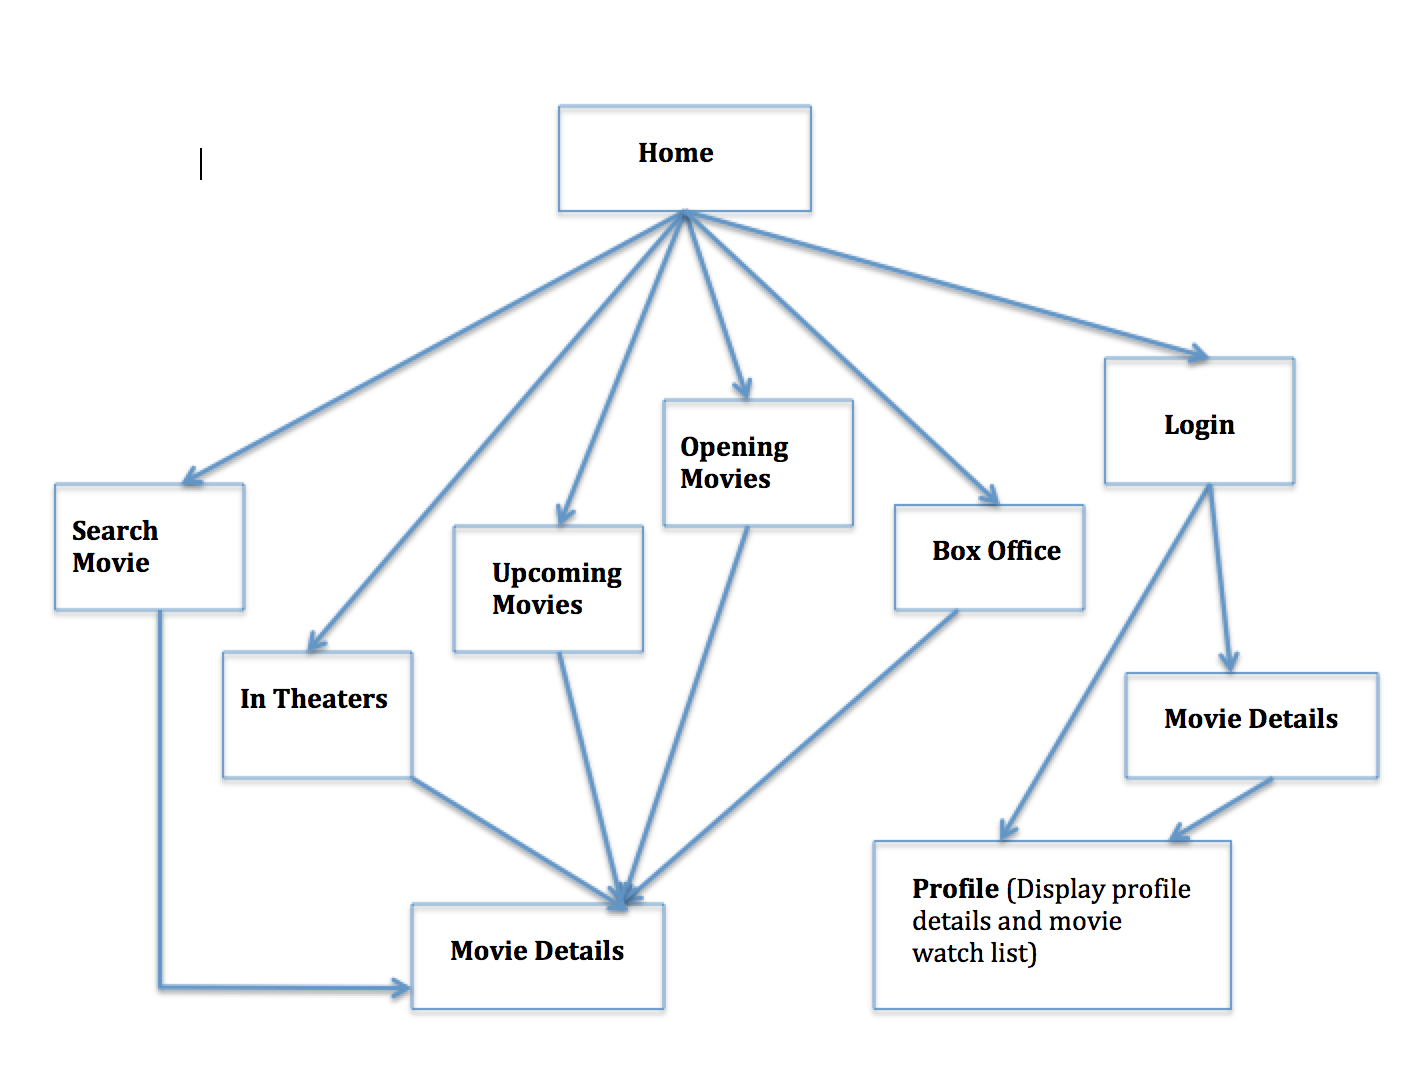
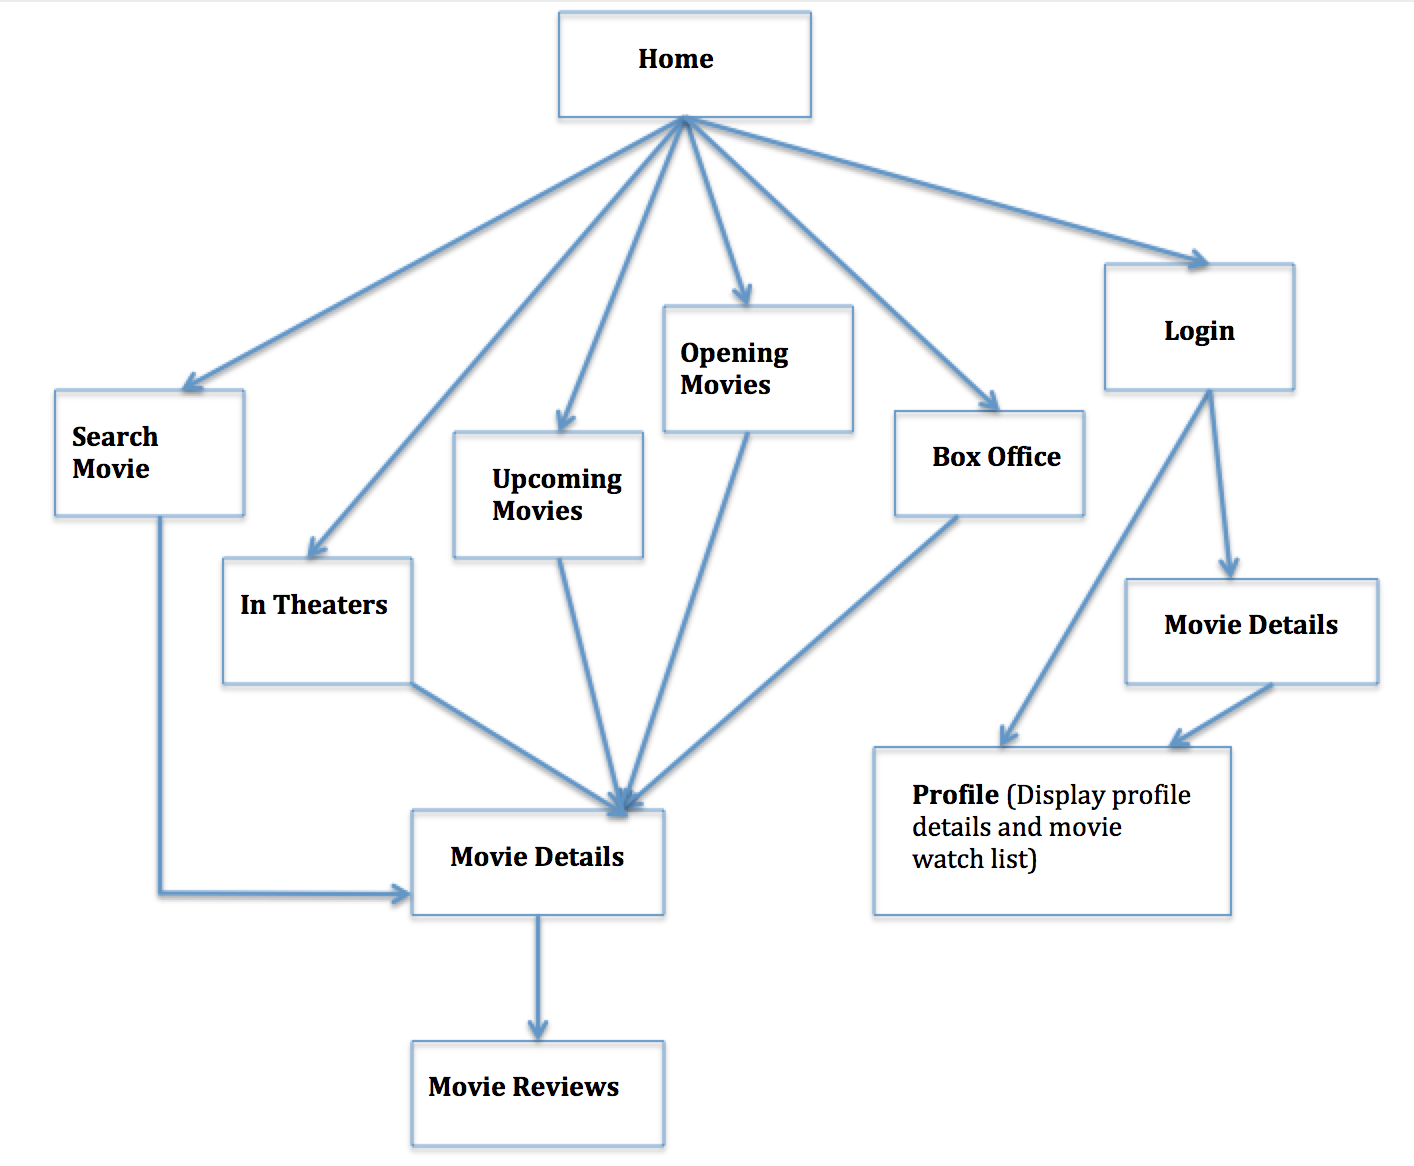
final upload

diff --git a/essential/project/docs/documentation.html b/essential/project/docs/documentation.html
@@ -229,12 +229,17 @@
                 <p>
                     User can check the movie reviews by checking the movie details. At the end of the movie details page there is a button to check the movie reviews for a movie 
                     Reviews from various critics and reviewers is available in brief. User can check out the full review by clicking the link provided.
+                    Users can also add their comments for the movie. Other users can also check the review and comments given by other users for that movie.
+                    In order to add comment user must be logged in.
                 </p>
                 <div>
                     <img class="inthea-img" src="snaps/rev-img1.png" />
                 </div><br /><br /><br />
                 <div>
                     <img class="inthea-img" src="snaps/rev-img2.png" />
+                </div><br /><br /><br />
+                <div>
+                    <img class="inthea-img" src="snaps/rev-img3.png" />
                 </div><br /><br /><br />
             </div>
             <h3>Profile Page</h3>
@@ -279,6 +284,9 @@
                         </li>
                         <li>
                             <b>Movmodels:</b> This collection is used to store the users movies in movie watchlist along with the username.
+                        </li>
+                        <li>
+                            <b>Commodels:</b> This collection is used to store the user comments on the movie reviews page along with movie id and username.
                         </li>
                     </ul>
                 </p>
